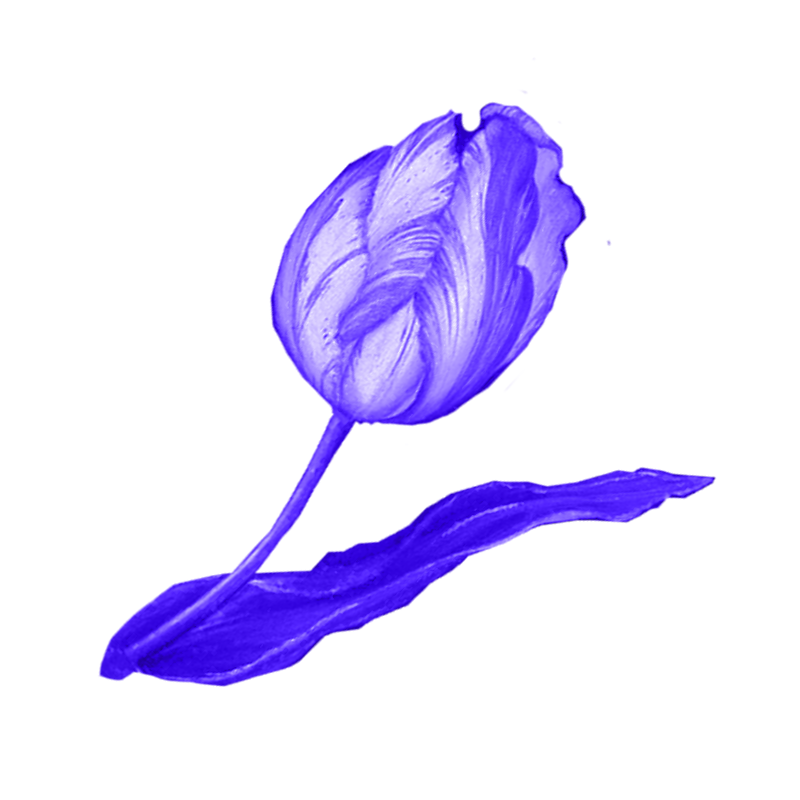
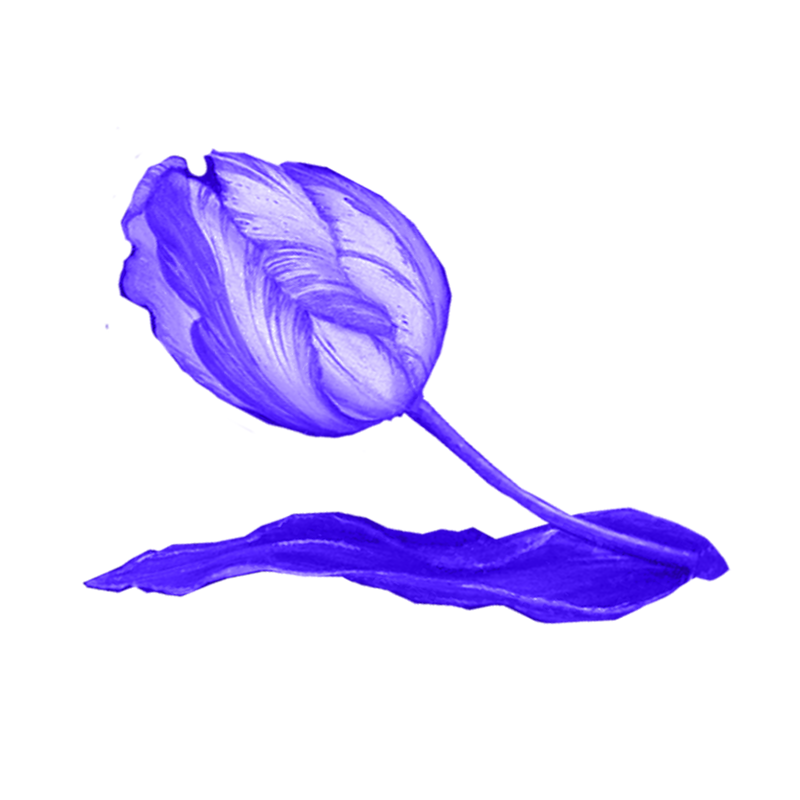
changed position of tulip and butterfly

Changed region(s): [[0.0938, 0.125, 0.9062, 0.875]]

diff --git a/homepage.css b/homepage.css
@@ -258,9 +258,8 @@ a.channel {
 
 .moth-1 {
   position: absolute;
-  bottom: 600px;
-  left: 900px;
-  top:2000px;
+  left: 300px;
+  top:1500px;
   width: 300px;
   height: 300px;
 }
@@ -268,8 +267,7 @@ a.channel {
 
 .moth-2 {
   position: absolute;
-  bottom: 600px;
-  left: 200px;
+  left: 600px;
   top:800px;
   width: 300px;
   height: 300px;
@@ -277,9 +275,8 @@ a.channel {
 
 .moth-3 {
   position: absolute;
-  bottom: 600px;
-  left:2000px;
-  top:1500px;
+  left:1500px;
+  top:1300px;
   width: 300px;
   height: 300px;
 }
@@ -287,9 +284,8 @@ a.channel {
 
 .tulip-about {
   position: absolute;
-  bottom: 600px;
-  left: 600px;
-  top:1000px;
+  left: 60px;
+  top:240px;
   width: 400px;
   height: 400px;
 }

diff --git a/index.html b/index.html
@@ -22,7 +22,7 @@
     </h1>
 
 
-    <a class="fullwidth mainLink" href="http://lovelanguages.melaniehoff.com/">About Digital Love Languages</a>
+    <!-- <a class="fullwidth mainLink" href="http://lovelanguages.melaniehoff.com/">About Digital Love Languages</a> -->
     <br><br>
 
     <div id="orientation-blocks">
